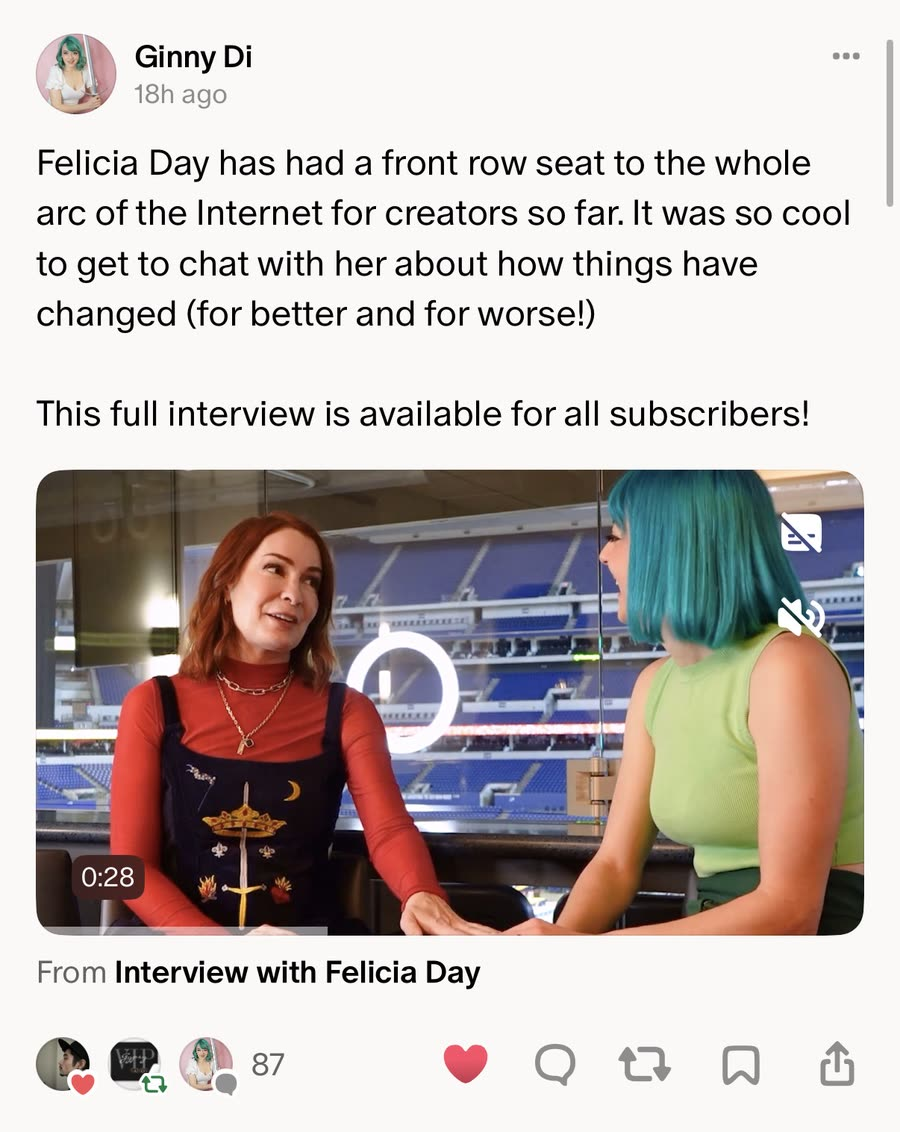
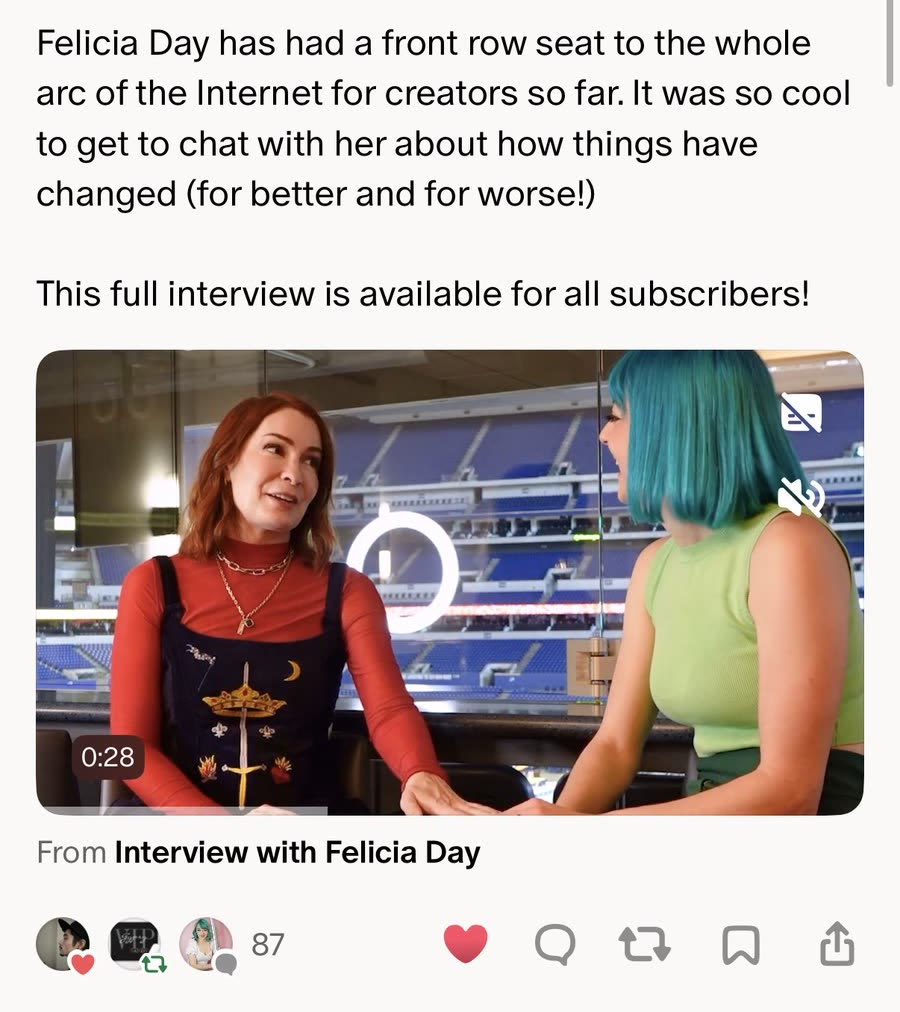
Bring back the creator shelf, cropped so no one is named
Each screenshot loses its avatar/handle/timestamp header, so every card opens on
the post itself. Crop offsets came from scanning each image for the first
all-white row-run beneath the header, then normalising to 24px of top padding so
the nine cards start consistently rather than at nine slightly different points.

Alt text is genericised for the same reason -- a name there still reaches screen
readers and the page source.

The items also carry intrinsic width/height now. Without them each card is 0px
tall until its image loads, so the strip collapses to 33px and paces its loop off
the wrong width.

Claude-Session: https://claude.ai/code/session_01L5NwgJZsdpc8EjXsJNFUDN

diff --git a/HANDOFF.md b/HANDOFF.md
@@ -91,7 +91,7 @@ Known open question: at the first frame of the morph the content switches from t
 
 `src/content/case-studies/clips.mdx` now carries the **final blog copy verbatim** from `~/Desktop/blog for clips/` (Notion export). Do not edit the prose — Jevin's rule. Typos in the source ("attatched", "embed into", "chose to post", "creators’ adjust") are intentional carry-overs. Structure: h2 sections s1–s8 (incl. Conclusion), h3s under Foundations/Craft/Future, two h4s under Workflow ("Leveraging push notifications", "What I measured") styled as bold body text (600 16.5px sans). The six principle sections (s1–s6) pass `principle={n}` to `Section.astro`, which renders a straight accent pill above the h2 spelling the number out — sentence case, Geist sans ("Principle one" … "Principle six"; the mono/uppercase treatment was dropped, same for the Detail eyebrows: "Detail 01"…). The s7 entry-points quote ("It's a beautiful feature hidden away.") gets the same `.pmf` pull-quote treatment as the PMF quote. Detail rows' h3 needed a `.dt h3` selector to out-rank Section's global h3 margin (alignment bug otherwise). (A tilted ticket + squiggle underline was tried and removed — Jevin found the scribble repetitive.) Under principle one sits `ProtoSketch.astro`: a pencil wireframe of the *actual pilot viewer* (drawn from frames of pilot-demo: "2 of 10", crossed video + caption squiggles, attribution, a placeholder scribble + four bare circle/pill outlines — Jevin iterated it toward pure sketch: no icon glyphs, no timestamp, no pause bars, no figcaption) that draws itself in stroke-by-stroke on scroll-in (CSS `pathLength=1` dashoffset, sequenced by `--d` delays off `[data-run]`, set by IO in gadgets.ts `initSketch`), gains three italic pencil annotations ("swipe ↑ for the next one", "an LLM suggests moments from a video" → the video, "the creator makes the call" → the pill), and stays put (the erase/stamp/replay phase was built and then removed — Jevin preferred the sketch to remain). Reduced-motion shows the finished sketch statically. `SignDoodle.astro` (slot="note" in s2, top 720 — beside the downloads video) is a margin doodle: a **hand-drawn autograph** in the theme's accent ink — a flowing two-stroke cursive flourish, an underline swash with a loop, a lifted-pen dot — drawn in stroke-by-stroke on scroll, then "— signed, the creator" fades in. (Iterations tried and rejected: leaf mascot signing, a resting pencil, and "Approved" set in Casserole Script — Jevin preferred the abstract signature; the Script woff2 was removed again.) Scroll-triggered via [data-sketch]/[data-run]; hidden <1180px. s3 has one more margin doodle: `LensDoodle.astro` (left, top 1280) — a doodled magnifying glass (wobbly overshooting rim, bowed double-stroke handle, curved glint) that makes one gentle sweep over the paragraphs then settles tilted in the left margin with caption "measured." (an oversized quote-marks doodle and a second-clip tally were tried and scrapped). Same [data-sketch] trigger, reduced-motion shows it settled. s4 has `ReshapeDoodle.astro` (right margin, top 920, beside the "simpler interface" paragraph): hand-wobbled doodle blocks (bowed path outlines, not rects) stack into a crooked tower, topple and scatter, then rebuild straight with accent sparks at the topping-out (earlier versions: shuffle-tiles, then geometric rects) (per-tile keyframes; note: an `animation:` shorthand without a name later overridden by `animation-name` lost its duration in the compiled CSS — use longhands). s5 has `RootsDoodle.astro` (right margin, top 230): a seed-to-tree sketch — ground line + grass tufts, a seed below ground, roots drawing in first (the unseen foundation), then a two-stroke trunk growing up, branches + twigs, loose scribbled canopy arcs, and a theme-accent leaf popping at the crown (~5s sequence; earlier sprouts-only version replaced at Jevin's direction). All doodles' `--pencil` is theme-infused: `color-mix(acc 40%, ink)` at each component's alpha (gem 55%), so every doodle recolours with the palette. All stroke-drawn doodles use `stroke-dasharray: 1 2; stroke-dashoffset: 1.02` (plain 1/1 paints a round-cap speck at each undrawn path start). The four Facets of Quality are a definition list, not cards (2026-09-01, Jevin's call): term in a 136px left column, the promise beside it, hairlines only *between* rows — the same ledger language as the Detail specimens below, and it stacks to one column <560px. s6's craft subsections are a **specimen ledger**: `Detail.astro` rows (numbered mono eyebrow `detail 01`–`06` in accent, h3, hairlines *between* rows only — `.detail + .detail`, so nothing rules off the first specimen from the Facets list above it; stacks <640px). Order (reordered at Jevin's direction, seen-state first): 01 seen-state (two-col, media right), 02 composer Before/After (`wide`), 03 NUX (`wide`), 04 loading (two-col `flip`, media left; "earlier explorations" + two portraits in the full-width `below` slot), 05 download Exploration/Final (`wide`), 06 filter (two-col, media right). `wide` = single column, full-width media below text. s6 also has `GemDoodle.astro` (right margin, top 200, beside the Facets list): a loosely-drawn gem (bowed strokes, −3° tilt) whose facet lines draw in one by one — the four Facets of Quality — then six little accent stars pop in staggered *around* the stone (no overlap — Jevin's call). s5's doodle sits in the LEFT margin (doodles alternate down the page: s2 right, s3 left, s4 right, s5 left, s6 right). Its final form is a slowly-growing doodle forest: five abstract zigzag pines (tumblr-style spine + chevron branches, varied heights) springing up **from the centre outward** — tallest first, then the flanking pairs together — each drawing while it scale-pops from its base with a bouncy overshoot (cubic-bezier(.3,1.75,.45,1)). The pines wear the theme accent in depth bands: centre 85% acc, mid pair 60%, outer pair 35% (fading toward graphite) — recolours across all five palettes. (Rejected along the way: sprouts, detailed tree, abstract fan, fern, cloud-canopy tree, and a version with hills/hatching/stars/accent moon — Jevin pared it to just the trees.) The PMF quote ("I wasn't testing it…") is wrapped in `<span class="pmf" data-sketch>` — copy unchanged — styled as a pull-quote (own line, 500 26px italic Newsreader, balanced wrap) whose wavy accent underline inks in on scroll (text-decoration-color transition). Muted-loop + player playback uses hysteresis (play ≥50% visible, pause ≤15%); home card hover is silent (sfx belongs to the post screen). All Quip margin notes were removed (2026-08-24, Jevin's call); Quip.astro still exists unused. Author footer lists all ten creators.
 
-Media (updated 2026-08-24 evening with new assets from ~/Desktop): s5 Evaluations now shows `evals-compare.jpg` (control/variant A-B table) + `eval-tool.mp4` (31s screen recording of the eval tool, transcoded from Desktop); the s2 quip screenshot sits in a Row with `quip-comments.jpg` (fan comments); beneath, `testimonial.jpg` spans the full column width, captioned "A creator's early-access feedback email" (2026-09-04: `chat-feedback.jpg` sits directly beneath it, captioned "Creator feedback in a Patreon chat" — converted from `~/Downloads/IMG_1353.heic` via sips → png → ffmpeg `crop=1254:194:0:16`, the 16px trimming a sliver of cut-off text off the top edge) (a pull-quote + side-by-side layout was tried and removed — the highlighted line in the screenshot carries the quote); the entry cards also repeat under the walkthrough player with captions; below that Row sits `Shelf.astro` (label removed): 9 real creator Quips (`wild-1..9.jpg`, converted from Jevin's screenshots — EnjoyingArt, Ginny Di, Knit Graffiti, Ben & David, Patrick Visser, Stinky Dragon, JonathanOst, Paint Club, Bliss Foster) as tilted post cards in a full-bleed (1100px) auto-scrolling marquee — duplicated set, `initShelf` in gadgets.ts measures loop width and paces ~38px/s, pauses on hover, cards straighten+lift and open in the lightbox; edge masks both sides; reduced-motion = static scrollable row (an earlier drag-to-scroll version was replaced) (Jevin re-cropped entry-profile.jpg to 1202×613 in place; both pair instances use Figure's `grow` prop — flex-grow set to each image's aspect ratio, 1.26/1.96 — so the two render equal-height with aligned captions); s7 entry-point images replaced by `entry-ready.jpg` + `entry-profile.jpg` (old entrypoints/nux-1/dashboard jpgs and evals.mp4 deleted). Media: everything was transcoded to `public/media/clips/` (H.264 mp4 + jpg posters; the walkthrough keeps its voiceover audio; the two HEVC portrait recordings are `explore-1/2`). Source files stay in the Desktop folder.
+Media (updated 2026-08-24 evening with new assets from ~/Desktop): s5 Evaluations now shows `evals-compare.jpg` (control/variant A-B table) + `eval-tool.mp4` (31s screen recording of the eval tool, transcoded from Desktop); the s2 quip screenshot sits in a Row with `quip-comments.jpg` (fan comments); beneath, `testimonial.jpg` spans the full column width, captioned "A creator's early-access feedback email" (2026-09-04: `chat-feedback.jpg` sits directly beneath it, captioned "Creator feedback in a Patreon chat" — converted from `~/Downloads/IMG_1353.heic` via sips → png → ffmpeg `crop=1254:194:0:16`, the 16px trimming a sliver of cut-off text off the top edge) (a pull-quote + side-by-side layout was tried and removed — the highlighted line in the screenshot carries the quote); the entry cards also repeat under the walkthrough player with captions; below that Row sits `Shelf.astro` (label removed; pulled from the page 2026-08-28 in `1745101`, restored 2026-09-04 with each screenshot **cropped so no creator is named** — the avatar/handle/timestamp header is gone and every card now opens on the post body; per-image crop offsets were found by scanning for the first all-white row-run under the header and normalising to 24px of top padding, so the nine cards start consistently. Alt text was genericised to match, since names there would still reach screen readers and the HTML source. Two places still name creators: the burned-in `enjoying art` watermark inside wild-1's own video thumbnail, and the author bio's ten creator links at the foot of the page. The items now carry `w`/`h`, rendered as intrinsic `width`/`height` on the card images — without them every card is 0px tall until its image loads, the strip collapses to 33px, and `pace()` measures the wrong loop width): 9 real creator Quips (`wild-1..9.jpg`, converted from Jevin's screenshots — EnjoyingArt, Ginny Di, Knit Graffiti, Ben & David, Patrick Visser, Stinky Dragon, JonathanOst, Paint Club, Bliss Foster) as tilted post cards in a full-bleed (1100px) auto-scrolling marquee — duplicated set, `initShelf` in gadgets.ts measures loop width and paces ~38px/s, pauses on hover, cards straighten+lift and open in the lightbox; edge masks both sides; reduced-motion = static scrollable row (an earlier drag-to-scroll version was replaced) (Jevin re-cropped entry-profile.jpg to 1202×613 in place; both pair instances use Figure's `grow` prop — flex-grow set to each image's aspect ratio, 1.26/1.96 — so the two render equal-height with aligned captions); s7 entry-point images replaced by `entry-ready.jpg` + `entry-profile.jpg` (old entrypoints/nux-1/dashboard jpgs and evals.mp4 deleted). Media: everything was transcoded to `public/media/clips/` (H.264 mp4 + jpg posters; the walkthrough keeps its voiceover audio; the two HEVC portrait recordings are `explore-1/2`). Source files stay in the Desktop folder.
 
 Media layer (2026-08-24, gadgets removed at Jevin's request — Gadget.astro/Pile.astro deleted, every image/video kept): `Player.astro` (voiceover player in **theatre mode** — breaks out of the 640px column to `min(1200px, 100vw - 80px)`, centred via symmetric `margin-inline: calc((100% - --tw)/2)`, caption centred; excluded from the lightbox. **Autoplays muted** while on screen like an ambient reel (IntersectionObserver; respects a reader's manual pause); pre-sound state shows only the big "Tap for sound" pill — tap → voiceover on; on ended it rewinds to muted ambient play and re-offers the pill. Pre-start shows only that pill; after start a bar with play/pause, scrubber, `current / total`, mute that auto-hides while playing and returns on hover/pause; video click toggles; pauses off-screen) and a **FLIP lightbox** in `scripts/gadgets.ts` (`initGadgets` still the entry, called from `post.ts`). Tap any `figure.fig img/video` or `.phones` video → a fixed twin (a wrapper that copies the asset's *presentation* frame — the `.frame` for phone loops, the media itself for figures — with border/radius divided by the flight scale so both endpoints are pixel-identical; the flight shadow fades in/out with the flight) flies (transform-only) from the asset's rect to centre over a dimmed scrim; on close the original is revealed one frame before the overlay drops, so the swap is invisible. Mapping is centre-based (origin 50% 50%, uniform scale) and rotation-aware: `angleOf()` accumulates ancestor rotations (DOMMatrix atan2) so tilted shelf cards fly out/land at their tilt, straightening at centre; the shelf loop (html[data-lb] pause) resumes only in finish(), after the image has landed; finish() dispatches `lb:closed`, which sets `data-nohover` on the shelf so the cursor resting where the card was doesn't keep it hover-paused — cleared on ≥6px pointer movement; hover-pause is scoped to `.shelf:has(.card:hover)`, caption + ✕ fade in; Esc/scrim/click closes and it flies back to the re-measured rect. Videos: twin picks up `currentTime`, source pauses, syncs back on close. Original keeps its layout slot (`visibility: hidden`). **The swap is gated on the twin actually having pixels** (2026-08-31 fix for a flicker on open, worst on mobile): a freshly created `<img>` is undecoded at insert (measured `naturalWidth 0`) and a fresh `<video>` sits at `readyState 0` for ~35–95ms even from cache, so hiding the original after the old fixed 2-frame wait showed an empty box — or, for video, the frame-0 poster against a source paused mid-clip — for a frame or three. `twinReady()` now awaits `img.decode()` / `loadeddata` (600ms race guard so a stalled asset never blocks the tap), the twin starts at `opacity: 0` stacked over the still-visible original, and two frames later `arm()` re-measures the source rect (it can drift while waiting), snaps the twin there with `transition: none`, then flips opacity to 1 and the original to hidden **in the same frame** before starting the flight. Closing before `armed` tears down without a flight. Cost: image opens are unchanged (~30ms to the swap), video opens gain ~30ms; measured 0 blank frames across image/video targets. Two follow-ons the same day, from Jevin seeing artifacts once the twin actually rendered: (1) **the twin is rastered at its large open size and minified by the compositor at the small end of the flight** — held there it reads visibly thinner and more aliased than the original (a figure card lands at scale .29; verified side by side in Chrome), which is inherent to a compositor-driven scale animation and cannot be rastered away. So the start state is committed with a forced reflow (`void twin.offsetWidth`) and the flight launched in the *same* frame, and the twin's opacity only flips to 1 one rAF later — by then it is at scale .36 and moving, so the aliased raster is never painted sitting still. The landing mirrors it for images (twin opacity 0 in the same commit that reveals the source); video keeps the old two-frame cover, which the source's seek needs. (2) `pres` (geometry/border source) and the element that gets hidden are now separate: `shell = closest('.frame, .vshell')`, because `figure.fig` videos carry a `.vposter` overlay pinned over them and hiding only the `<video>` left that still frame sitting on the page under the open lightbox. Verified across figure images, figure videos and phone loops: 0 blank frames, source never visible while the twin is, no leaks, 0px landing drift. A third round (2026-08-31, Jevin still seeing the poster flicker in and out on **iOS Safari** — a platform I cannot drive from here, so this one is reasoned from the iOS media quirks and verified only in Chrome): four changes, all about iOS repainting a video's own `poster` attribute. (a) `readyState >= 2` is not proof of a painted frame on iOS — it reports HAVE_CURRENT_DATA while the poster is still on screen — so `videoPainted()` now waits on `requestVideoFrameCallback` (presentation, not availability) and falls back to readyState only where rVFC is missing. (b) The twin no longer carries a `poster` attribute at all: gated on a real frame, a poster can only ever paint the wrong one. (c) Safari drops a `currentTime` written before metadata arrives, which would open the twin on frame 0 under a source sitting mid-clip — `videoTwinReady()` defers the seek to `loadedmetadata` when needed and waits for the frame *after* `seeked`. (d) The source is now held at **`opacity: 0`, not `visibility: hidden`** — iOS tears down the video layer of a subtree it stops painting and repaints the poster when it comes back — and on close the twin is dropped in the same commit that restores the source, gated (capped 250ms) on the source having presented a frame, since the old one-frame overlap assumed identical pixels that never existed. All promises are capped so a stalled asset can't strand the twin. Scroll locked while open (scrollbar width swapped for `padding-right` on `<html>` so classic scrollbars cause zero layout shift — verified with a forced 15px scrollbar); focus goes to ✕ and returns; `prefers-reduced-motion` skips the flight; keyboard: assets are tabbable, Enter/Space opens. Styles under "Fullscreen media viewer" in `global.css`. All `figure video[muted]` play only while on screen (IntersectionObserver in `post.ts`); speed toggles only on full-width `Figure`s. Verified: open/close restores exact rect, video resumes, no console errors.
 
